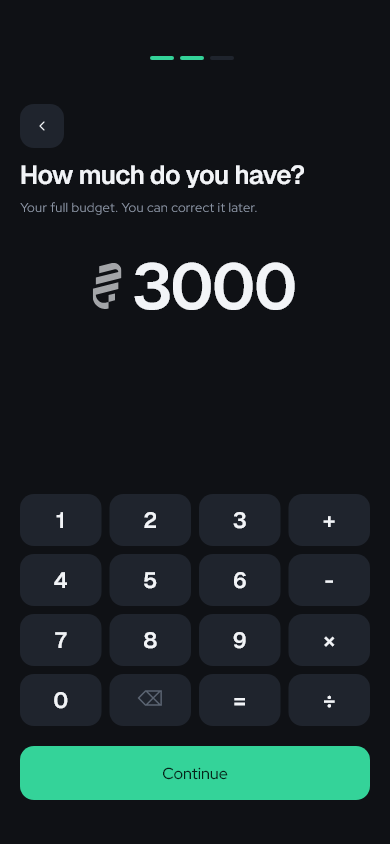
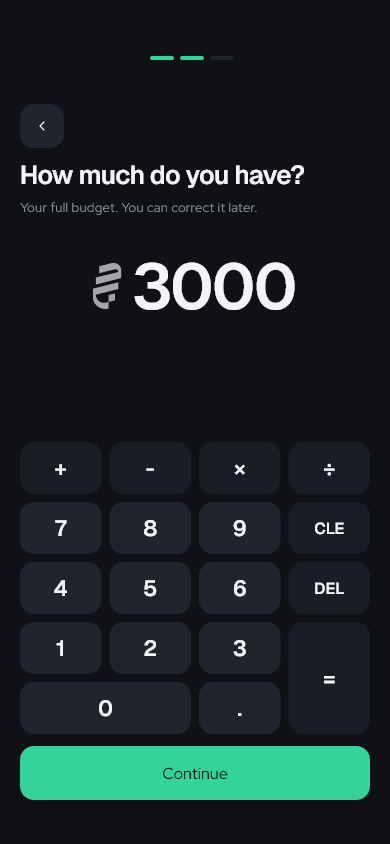
docs: refresh all README screenshots from version 0.6.0

diff --git a/README.md b/README.md
@@ -52,7 +52,7 @@ A money journal for Algerian students. Spread your allowance across the days unt
 | Budget | Edit your budget, manage usual products, open Loans or Plan, or Stop and Save. |
 | Settings | Choose Algerian dinars or euros for new budgets. |
 
-Screenshots use sample records. The Home, Budget, Settings, and calculator images show version 0.6.0; other workflow images show the earlier layout. They do not show personal financial data.
+All screenshots show version 0.6.0 with sample records. They do not show personal financial data.
 
 ### Small purchases, written down
 
